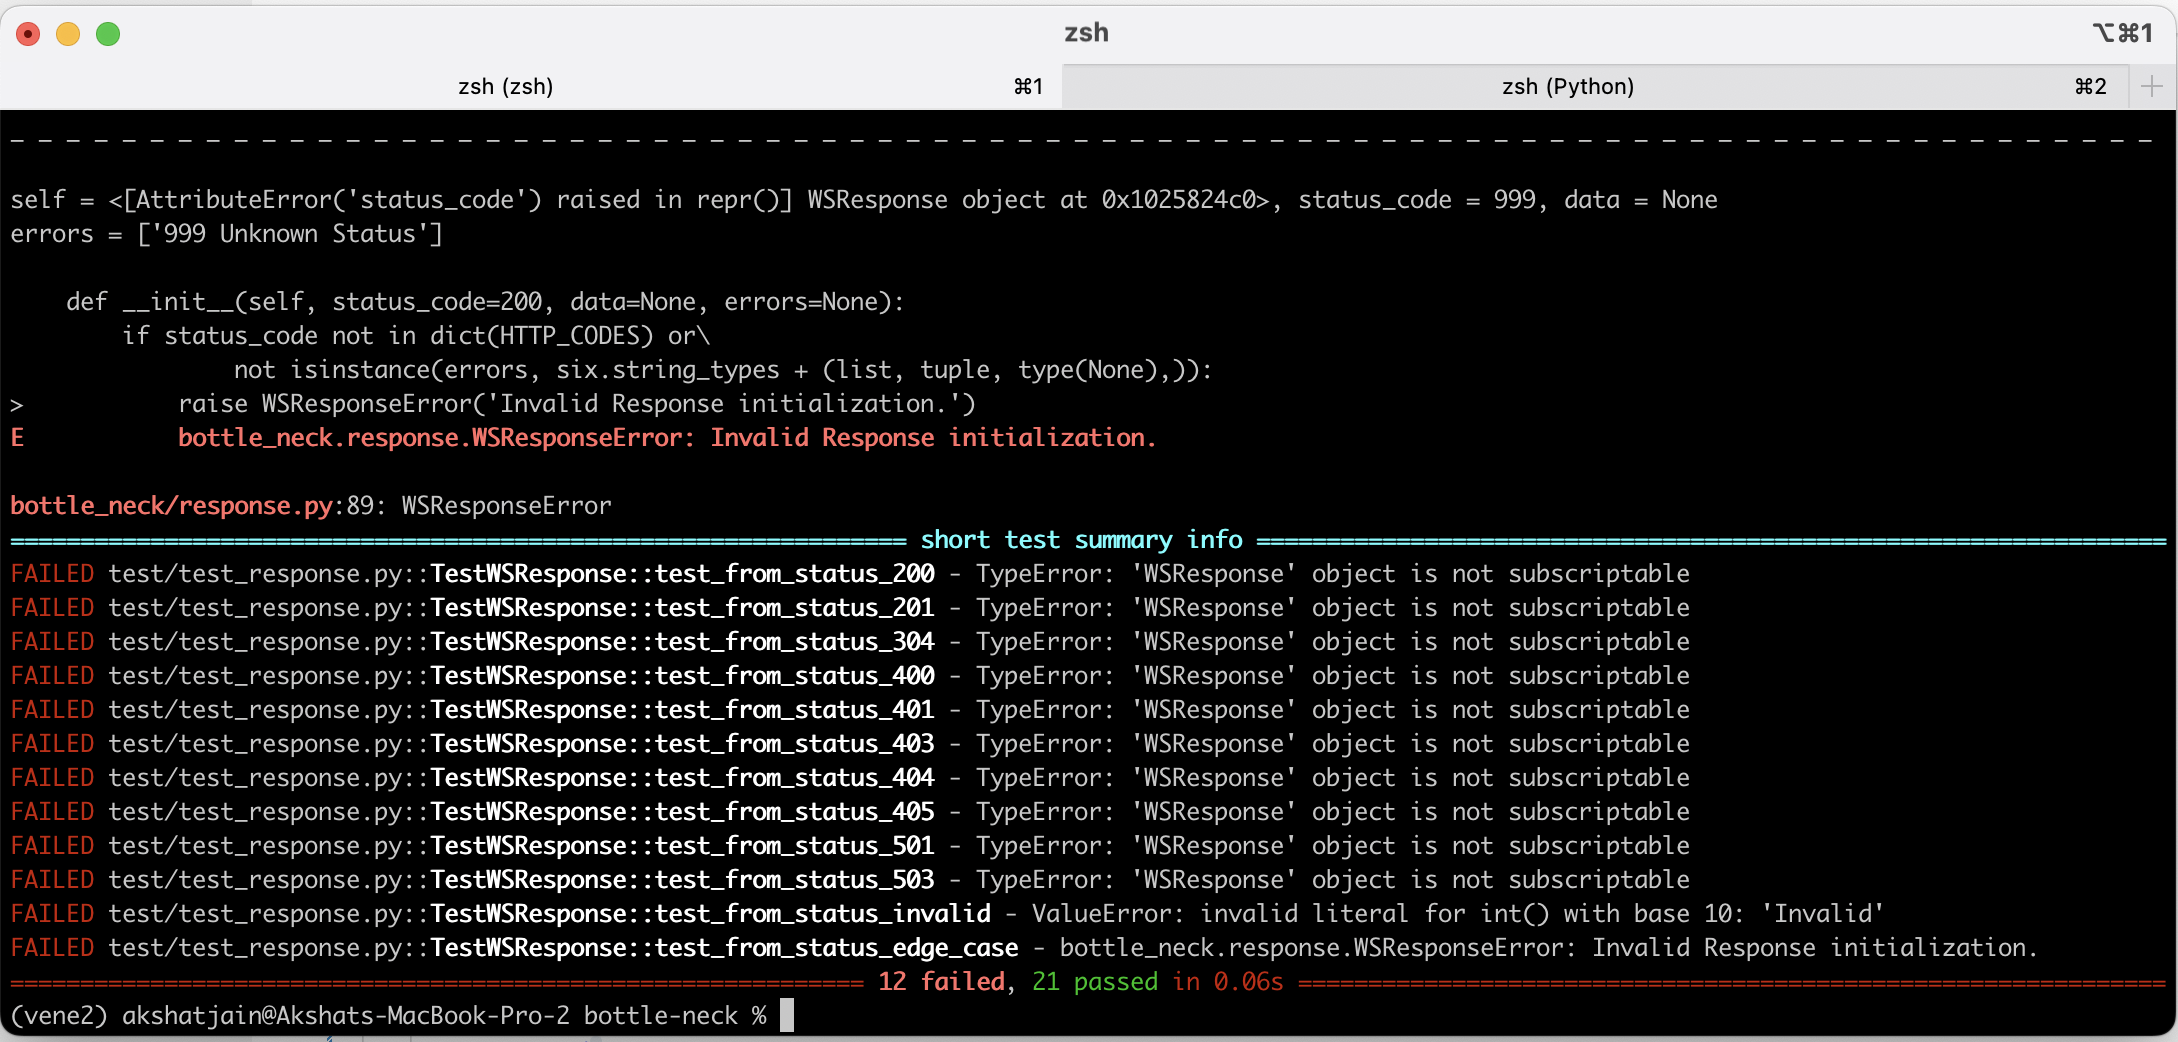
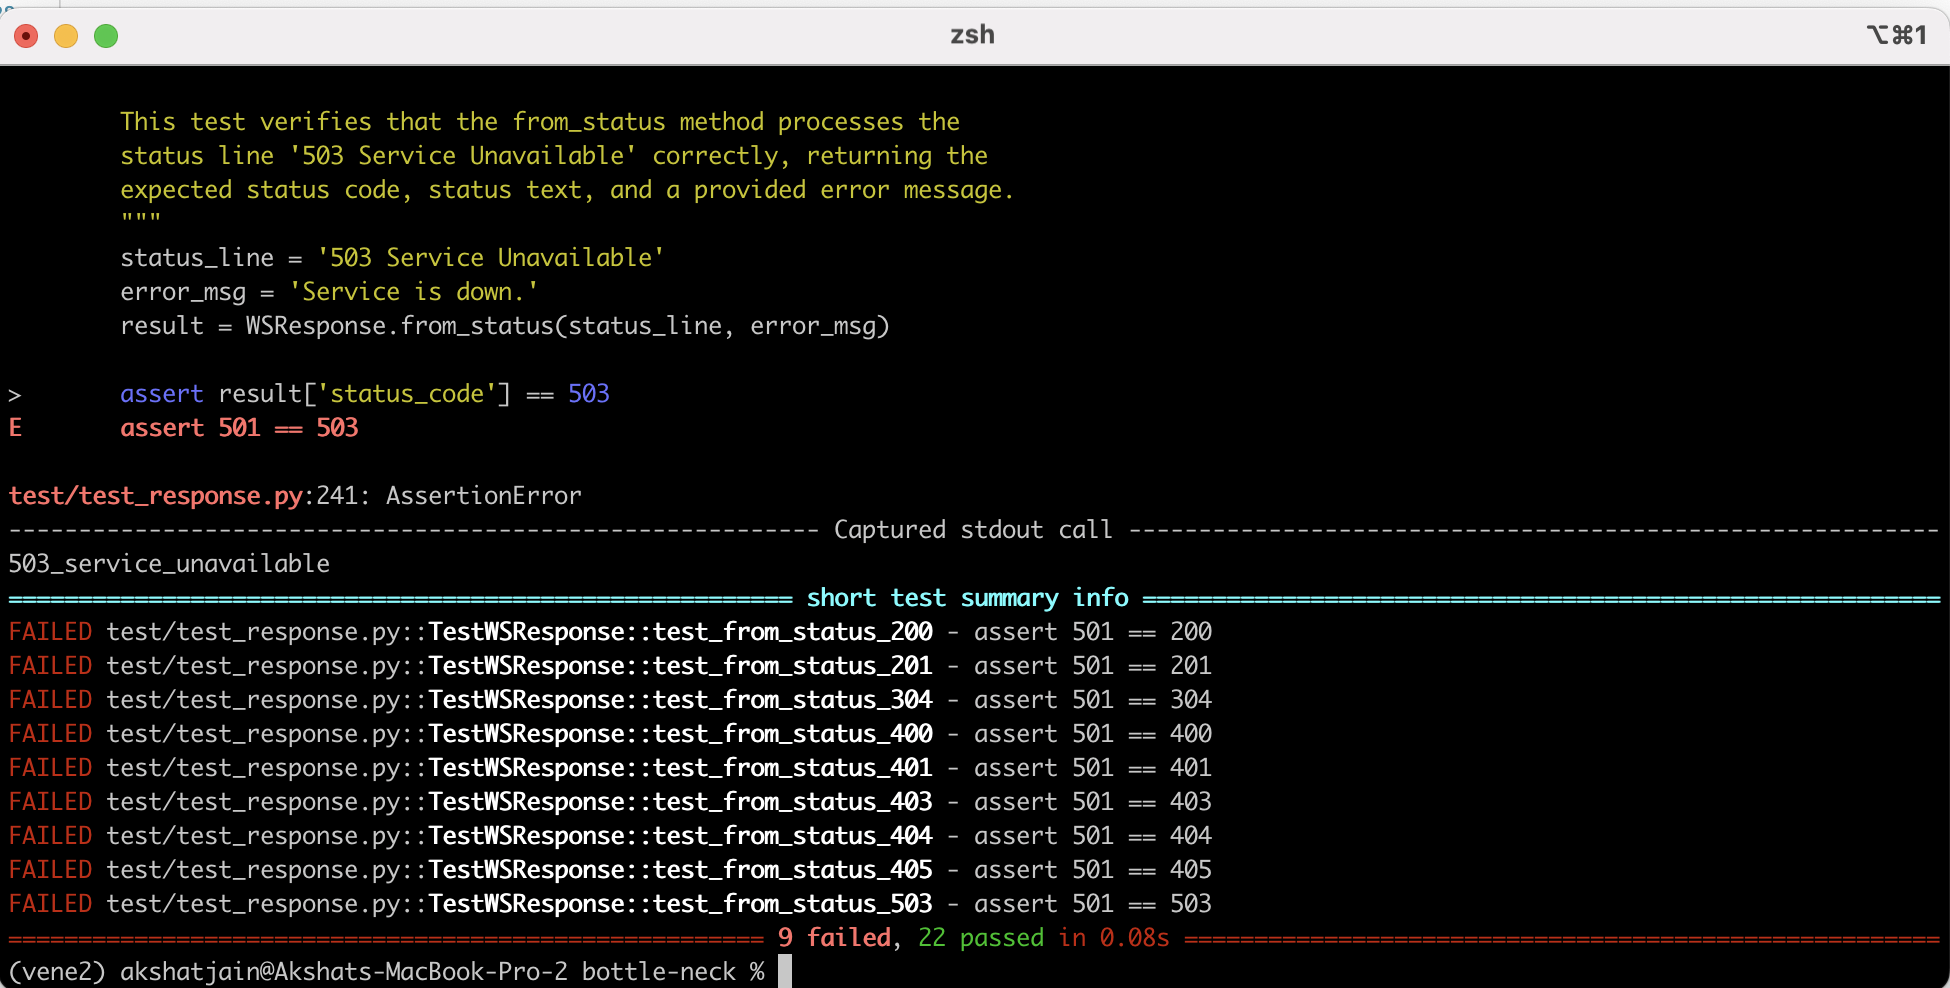
updated prompt and features

Changed region(s): [[0.0, 0.0, 1.0, 1.0], [0.9846, 0.5769, 1.0, 0.6377], [0.0, 0.3947, 0.0308, 0.4251]]

diff --git a/bottle-neck/features/feature_5/with_hole.py b/bottle-neck/features/feature_5/with_hole.py
@@ -110,25 +110,29 @@ class WSResponse(object):
     @classmethod
     def from_status(cls, status_line, msg=None):
         """Returns a class method from bottle.HTTPError.status_line attribute.
-        Useful for patching `bottle.HTTPError` for web services.
+		Useful for patching `bottle.HTTPError` for web services.
 
-        Args:
-            status_line (str):  bottle.HTTPError.status_line text.
-            msg: The message data for response.
+		The status_line input should be converted to lowercase, 
+		with only alphabetic characters considered, and spaces 
+		replaced with underscores.
 
-        Returns:
-            Class method based on status_line arg.
+		Args:
+		    status_line (str):  bottle.HTTPError.status_line text. 
+		    msg: The message data for response.
 
-        Examples:
-            >>> status_line = '401 Unauthorized'
-            >>> error_msg = 'Get out!'
-            >>> resp = WSResponse.from_status(status_line, error_msg)
-            >>> resp['errors']
-            ['Get out!']
-            >>> resp['status_text']
-            'Unauthorized'
-        """
-        $PlaceHolder$
+		Returns:
+		    Class method based on status_line arg.
+
+		Examples:
+		    >>> status_line = '401 Unauthorized'
+		    >>> error_msg = 'Get out!'
+		    >>> resp = WSResponse.from_status(status_line, error_msg)
+		    >>> resp['errors']
+		    ['Get out!']
+		    >>> resp['status_text']
+		    'Unauthorized'
+		"""
+		$PlaceHolder$
 
     @classmethod
     def ok(cls, data):

diff --git a/bottle-neck/test/test_response.py b/bottle-neck/test/test_response.py
@@ -241,27 +241,3 @@ class TestWSResponse:
         assert result['status_code'] == 503
         assert result['status_text'] == 'Service Unavailable'
         assert result['errors'] == ['Service is down.']
-
-    def test_from_status_invalid(self):
-        """
-        Test the `WSResponse.from_status` method with an invalid status line.
-        
-        This test checks that the from_status method raises an 
-        AttributeError when provided with an invalid status line. 
-        The assertion ensures that the error is raised as expected.
-        """
-        with pytest.raises(AttributeError):
-            WSResponse.from_status('Invalid Status Line')
-
-    def test_from_status_edge_case(self):
-        """
-        Test the `WSResponse.from_status` method with an unknown status code.
-        
-        This test verifies that the from_status method raises an 
-        AttributeError when given a status line with an unknown 
-        status code (999 Unknown Status). The assertion checks that 
-        the error is raised correctly.
-        """
-        status_line = '999 Unknown Status'
-        with pytest.raises(AttributeError):
-            WSResponse.from_status(status_line)

diff --git a/bottle-neck/features/feature_5/with_flawed_solution.py b/bottle-neck/features/feature_5/with_flawed_solution.py
@@ -1,6 +1,8 @@
 ```
-        return cls(
-            status_code=int(status_line.split(' ', 1)[0]),
-            errors=[msg] if msg else [status_line]
-        )
+		status_line = status_line.lower().replace(' ', '_')
+		status_line = ''.join(
+		    ch for ch in status_line if ch.isalnum() or ch == '_'
+		)
+		method = getattr(cls, status_line, cls.not_implemented)
+		return method(errors=msg)
 ```
